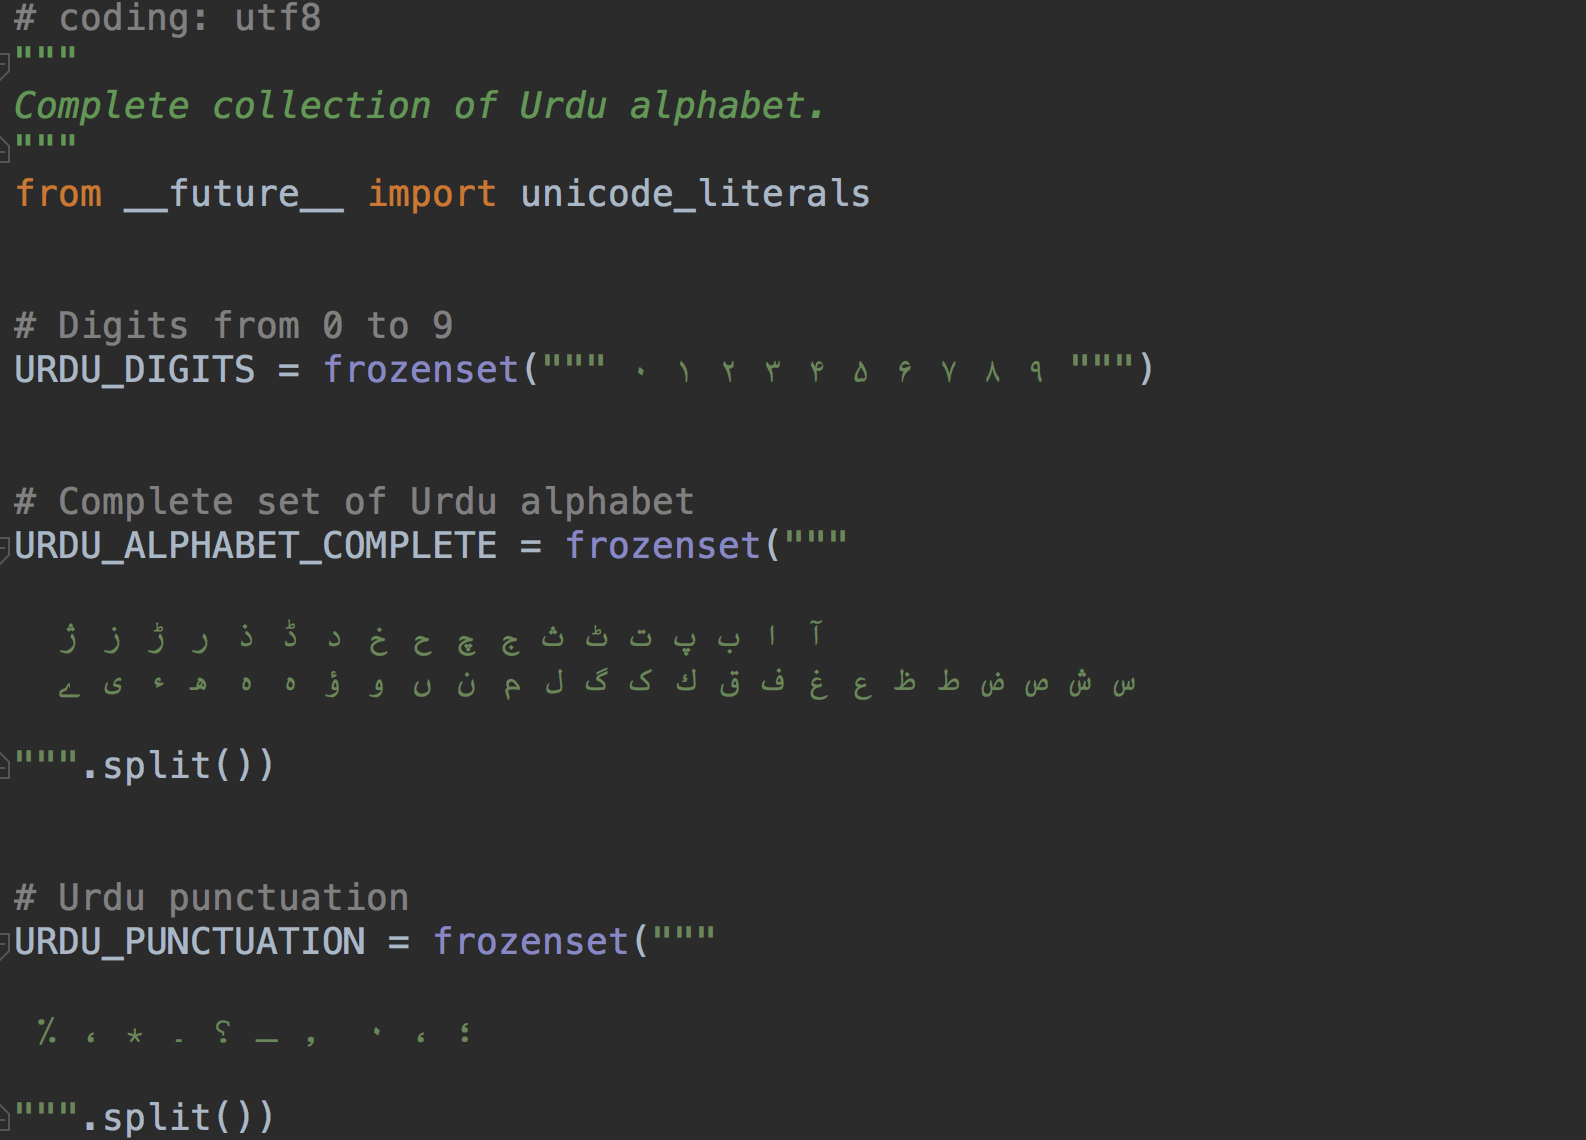
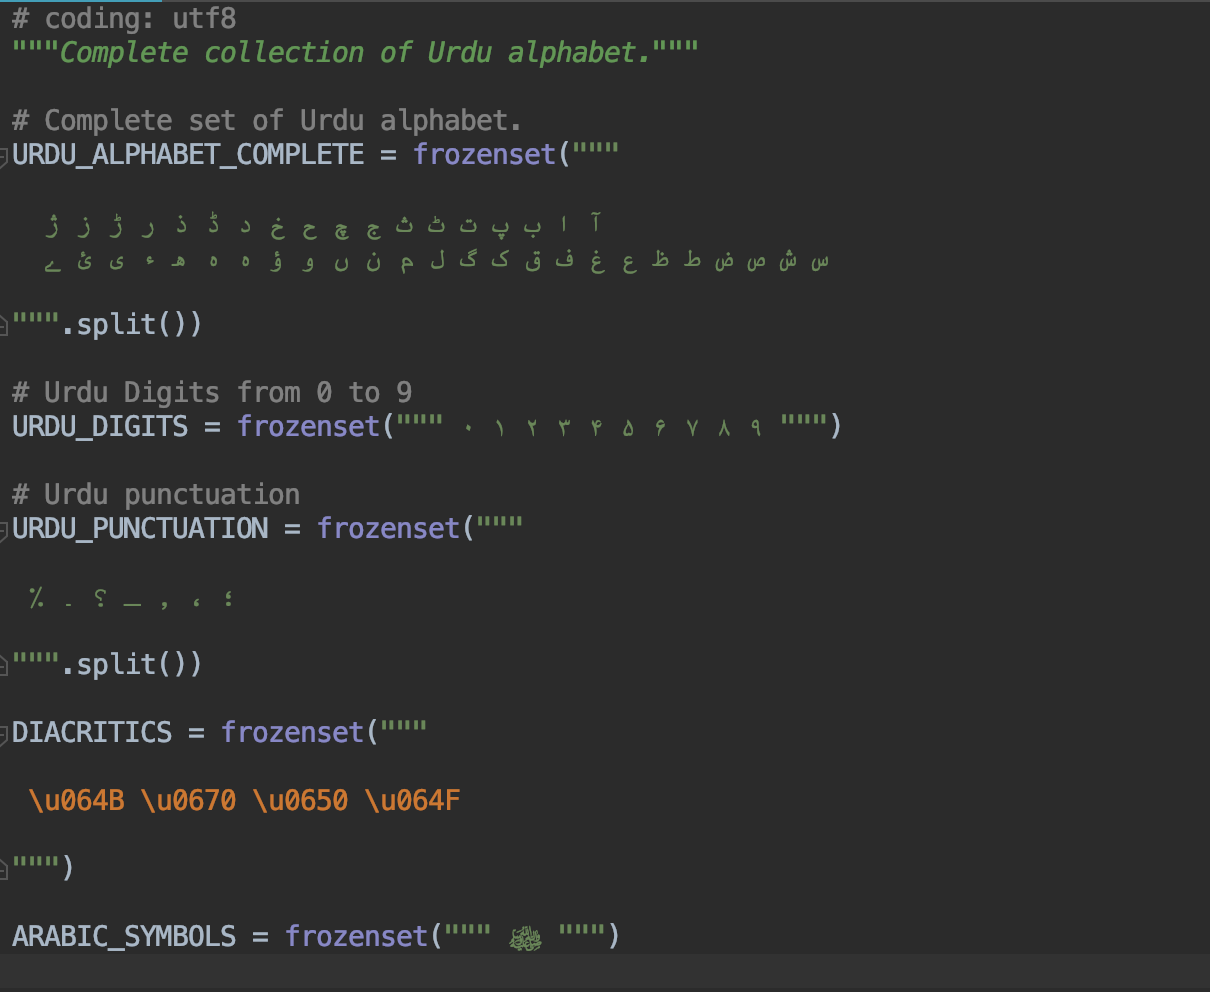
[readme] Readme updated.

diff --git a/urdu_alphabet.py b/urdu_alphabet.py
@@ -1,6 +1,5 @@
 # coding: utf8
 """Complete collection of Urdu alphabet."""
-from __future__ import unicode_literals
 
 # Complete set of Urdu alphabet.
 URDU_ALPHABET_COMPLETE = frozenset("""

diff --git a/README.md b/README.md
@@ -27,9 +27,10 @@ The Urdu alphabet has up to 58 letters with 39 basic letters and no distinct let
 
 `urdu_alphabet.py` contains complete urdu characters with unicode Range (0600 - 06ff). This file contains three type of characters list. 
 
-- `URDU_DIGITS` python set contains 10 URDU DIGITS.
-- `URDU_ALPHABET_COMPLETE` python set contains 58  characters. **Complete List**
-- `URDU_PUNCTUATION` python set contains 10 PUNCTUATION characters.
+- `URDU_DIGITS` set contains 10 URDU DIGITS.
+- `URDU_ALPHABET_COMPLETE` set contains 58  characters. **Complete List**
+- `URDU_PUNCTUATION` set contains 10 PUNCTUATION characters.
+- `DIACRITICS` set contains 4 basic characters.
 
 
 ## Contributing
